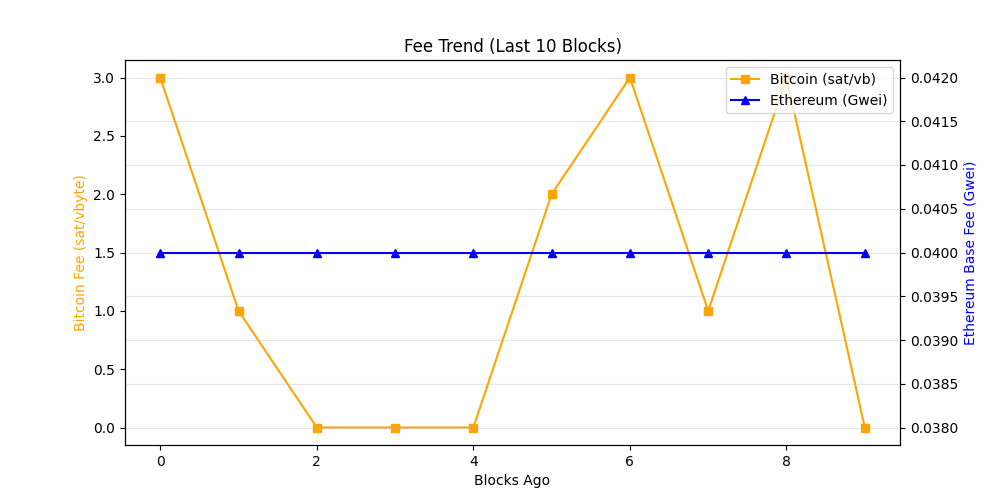
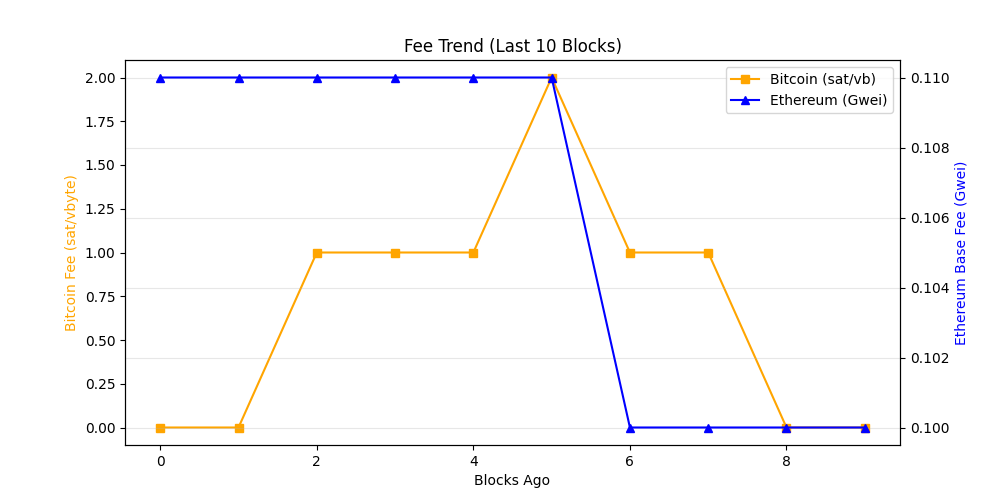
chore: update on-chain dashboard

diff --git a/README.md b/README.md
@@ -19,7 +19,7 @@ The README itself acts as the dashboard and is regenerated automatically on a 6 
 demonstrating a production-style, infrastructure-focused observability workflow rather
 than a traditional UI-driven approach.
 
-_Last updated: 2026-07-27 04:00 UTC_
+_Last updated: 2026-07-27 10:07 UTC_
 
 ## API Usage (GetBlock.io)
 - Calls used: **24**
@@ -27,8 +27,8 @@ _Last updated: 2026-07-27 04:00 UTC_
 ## Network Metrics
 | Chain | Block Height | TX Count | TPS (10 blk avg) | Block Util | Avg Fee |
 |------|-------------|----------|------------------|------------|---------|
-| Ethereum | 25621615 | 208 | 17.33 | 46.05% | 0.0 Gwei |
-| Bitcoin | 959780 | 6172 | 181.53 | 99.89% | N/A |
+| Ethereum | 25623443 | 213 | 17.75 | 38.72% | 0.1 Gwei |
+| Bitcoin | 959820 | 6850 | 81.55 | 99.8% | N/A |
 
 ## Visuals
 ### Transactions Trend
@@ -43,8 +43,7 @@ _Last updated: 2026-07-27 04:00 UTC_
 ## Whale Alerts (latest block)
 - Transaction hashes are truncated for readability.
 - Full hashes are available in `dashboards/metrics.json`
-- Bitcoin | 217.44 BTC | `ba607f4e033a…`
-- Bitcoin | 157.06 BTC | `82d6aac9fa38…`
+- Bitcoin | 329.36 BTC | `737480689d6e…`
 
 ## Run locally
 
